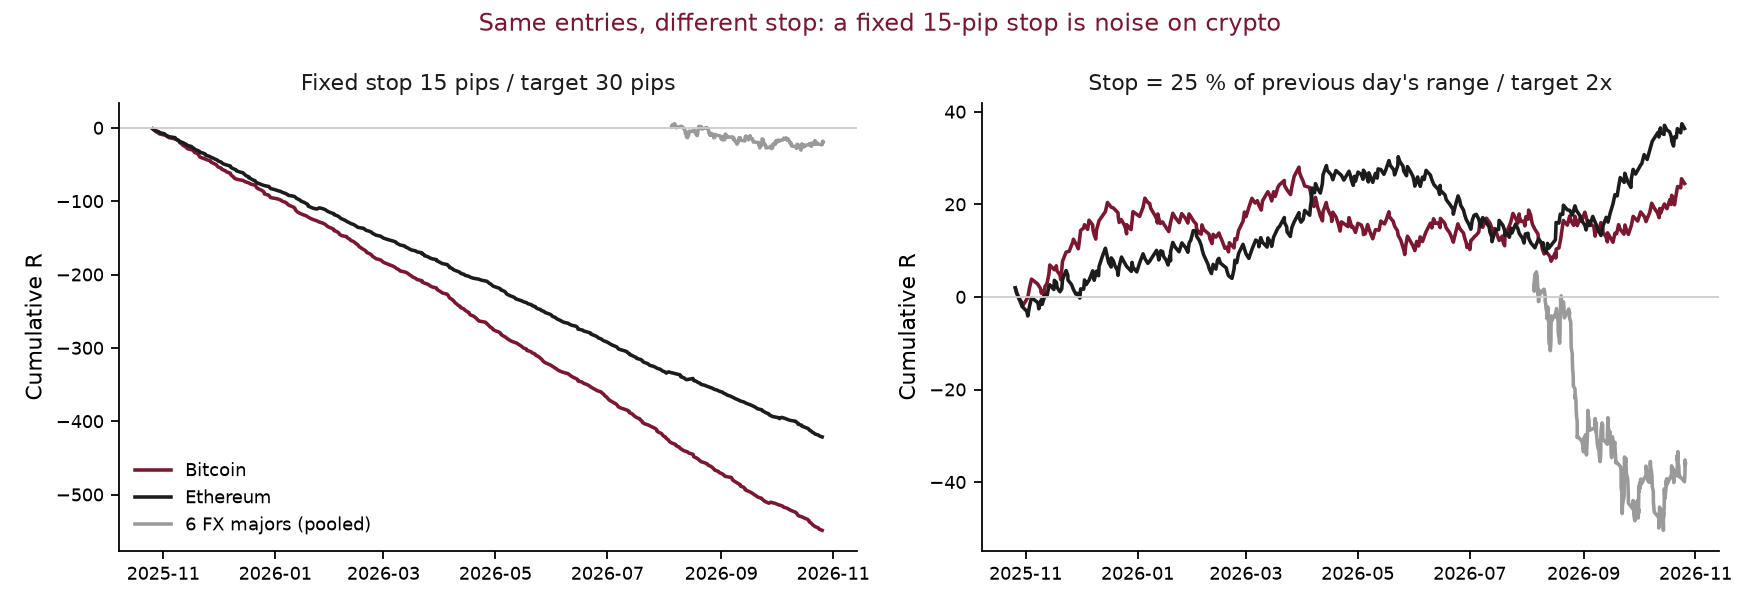
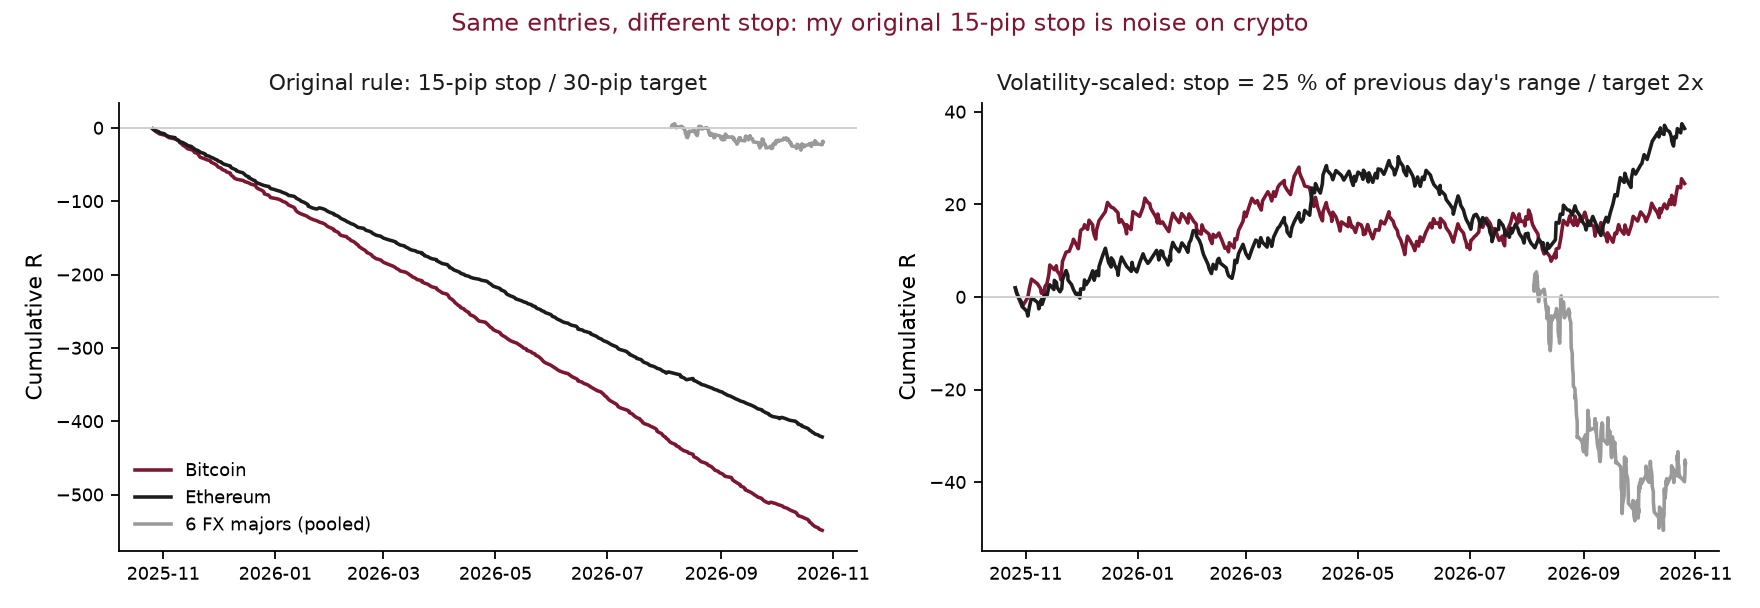
Explain the strategy and label my original rule clearly

Changed region(s): [[0.25, 0.0, 0.75, 0.0625], [0.5625, 0.125, 0.9688, 0.1562], [0.1562, 0.125, 0.4062, 0.1562]]

diff --git a/research.py b/research.py
@@ -74,7 +74,7 @@ def chart_equity(results):
         ax.spines[["top", "right"]].set_visible(False)
         ax.tick_params(labelsize=8)
     axes[0].legend(frameon=False, fontsize=8)
-    fig.suptitle("Same entries, different stop: a fixed 15-pip stop is noise on crypto", fontsize=11, color=RED)
+    fig.suptitle("Same entries, different stop: my original 15-pip stop is noise on crypto", fontsize=11, color=RED)
     fig.tight_layout()
     fig.savefig(RESULTS / "equity_curves.png", dpi=160)
     plt.close(fig)

diff --git a/backtest.py b/backtest.py
@@ -36,8 +36,8 @@ ASSETS = {
     "Bitcoin": ("binance", "BTCUSDT", 1.0, 10.0),
     "Ethereum": ("binance", "ETHUSDT", 0.1, 5.0),
 }
-MODES = {"fixed": "Fixed stop 15 pips / target 30 pips",
-         "scaled": "Stop = 25 % of previous day's range / target 2x"}
+MODES = {"fixed": "Original rule: 15-pip stop / 30-pip target",
+         "scaled": "Volatility-scaled: stop = 25 % of previous day's range / target 2x"}
 
 
 def download(source, symbol, days=None):

diff --git a/README.md b/README.md
@@ -10,11 +10,21 @@ arguments, macro calendar, headlines), a **backtest** of a previous-day high/low
 
 [![Morning brief](results/brief_preview.png)](https://alban245.github.io/markets-research-lab/)
 
-## The question
+## The strategy in one minute
 
-I trade intraday breakouts of the previous day's high (PDH) and low (PDL) on FX majors, gold, Bitcoin and Ethereum,
-with a fixed 15-pip stop and a 30-pip target. Does this rule have an edge once the spread is paid, and does a stop
-scaled to volatility do better?
+I scalp (trades of a few minutes to a few hours) on FX majors, gold, Bitcoin and Ethereum with one rule:
+
+- **Entry**: buy as soon as price breaks above the **previous day's high**, sell as soon as it breaks below the
+  **previous day's low**. These levels are widely watched, so a clean break often brings momentum.
+- **Exit, my original rule**: a **stop-loss 15 pips** away and a **profit target 30 pips** away (a pip is the smallest
+  standard price step: 0.0001 on EUR/USD). I risk 1 to make 2, so I only need to win one trade in three to break even.
+- **Exit, the alternative I test**: the same 1-to-2 ratio, but the stop is sized to volatility: **25 % of the previous
+  day's range** (high minus low), so it widens on volatile days and assets, and tightens on quiet ones.
+
+Results are measured in **R**: 1R is the amount risked on a trade. +2R is a winning trade, −1R a losing one.
+
+**The question**: does my original rule make money once the bid-ask spread is paid, and does a volatility-scaled stop
+do better?
 
 ## Results
 
@@ -22,7 +32,7 @@ scaled to volatility do better?
 
 ![Equity curves](results/equity_curves.png)
 
-| | Fixed 15/30-pip stop | Stop = 25 % of previous day's range |
+| Mean result per trade | My original rule: 15-pip stop, 30-pip target | Volatility-scaled stop (25 % of previous day's range) |
 |---|---|---|
 | Bitcoin (331 trades, 1 year) | **−1.66 R** per trade | **+0.07 R** [−0.07 ; +0.22] |
 | Ethereum (325 trades, 1 year) | **−1.30 R** | **+0.11 R** [−0.03 ; +0.26] |

diff --git a/results/report.md b/results/report.md
@@ -4,7 +4,7 @@ Generated by `research.py` from the data snapshot in `data/`. Spread included, 1
 
 ## 1. Full sample, by asset
 
-**Fixed stop 15 pips / target 30 pips**
+**Original rule: 15-pip stop / 30-pip target**
 
 | | Trades | Win rate | Mean R | 95 % interval | Resamples > 0 |
 |---|---|---|---|---|---|
@@ -20,7 +20,7 @@ Generated by `research.py` from the data snapshot in `data/`. Spread included, 1
 | FX majors pooled | 335 | 38% | -0.06 | [-0.19 ; +0.08] | 21% |
 | BTC + ETH pooled | 656 | 1% | -1.48 | [-1.50 ; -1.45] | 0% |
 
-**Stop = 25 % of previous day's range / target 2x**
+**Volatility-scaled: stop = 25 % of previous day's range / target 2x**
 
 | | Trades | Win rate | Mean R | 95 % interval | Resamples > 0 |
 |---|---|---|---|---|---|
@@ -56,7 +56,7 @@ Out-of-sample: trades after 01 Oct 2026, the day the rule was written down (smal
 
 Release window: 8:15–8:45am New York time on weekdays (8:30 data: NFP, CPI, PCE, GDP, jobless claims…) and 1:45–2:15pm on FOMC days.
 
-**Fixed stop 15 pips / target 30 pips**
+**Original rule: 15-pip stop / 30-pip target**
 
 | | Trades | Win rate | Mean R | 95 % interval | Resamples > 0 |
 |---|---|---|---|---|---|
@@ -65,7 +65,7 @@ Release window: 8:15–8:45am New York time on weekdays (8:30 data: NFP, CPI, PC
 | BTC + ETH, inside window | 20 | 0% | -1.48 | [-1.55 ; -1.42] | 0% |
 | BTC + ETH, outside window | 636 | 1% | -1.48 | [-1.50 ; -1.45] | 0% |
 
-**Stop = 25 % of previous day's range / target 2x**
+**Volatility-scaled: stop = 25 % of previous day's range / target 2x**
 
 | | Trades | Win rate | Mean R | 95 % interval | Resamples > 0 |
 |---|---|---|---|---|---|
